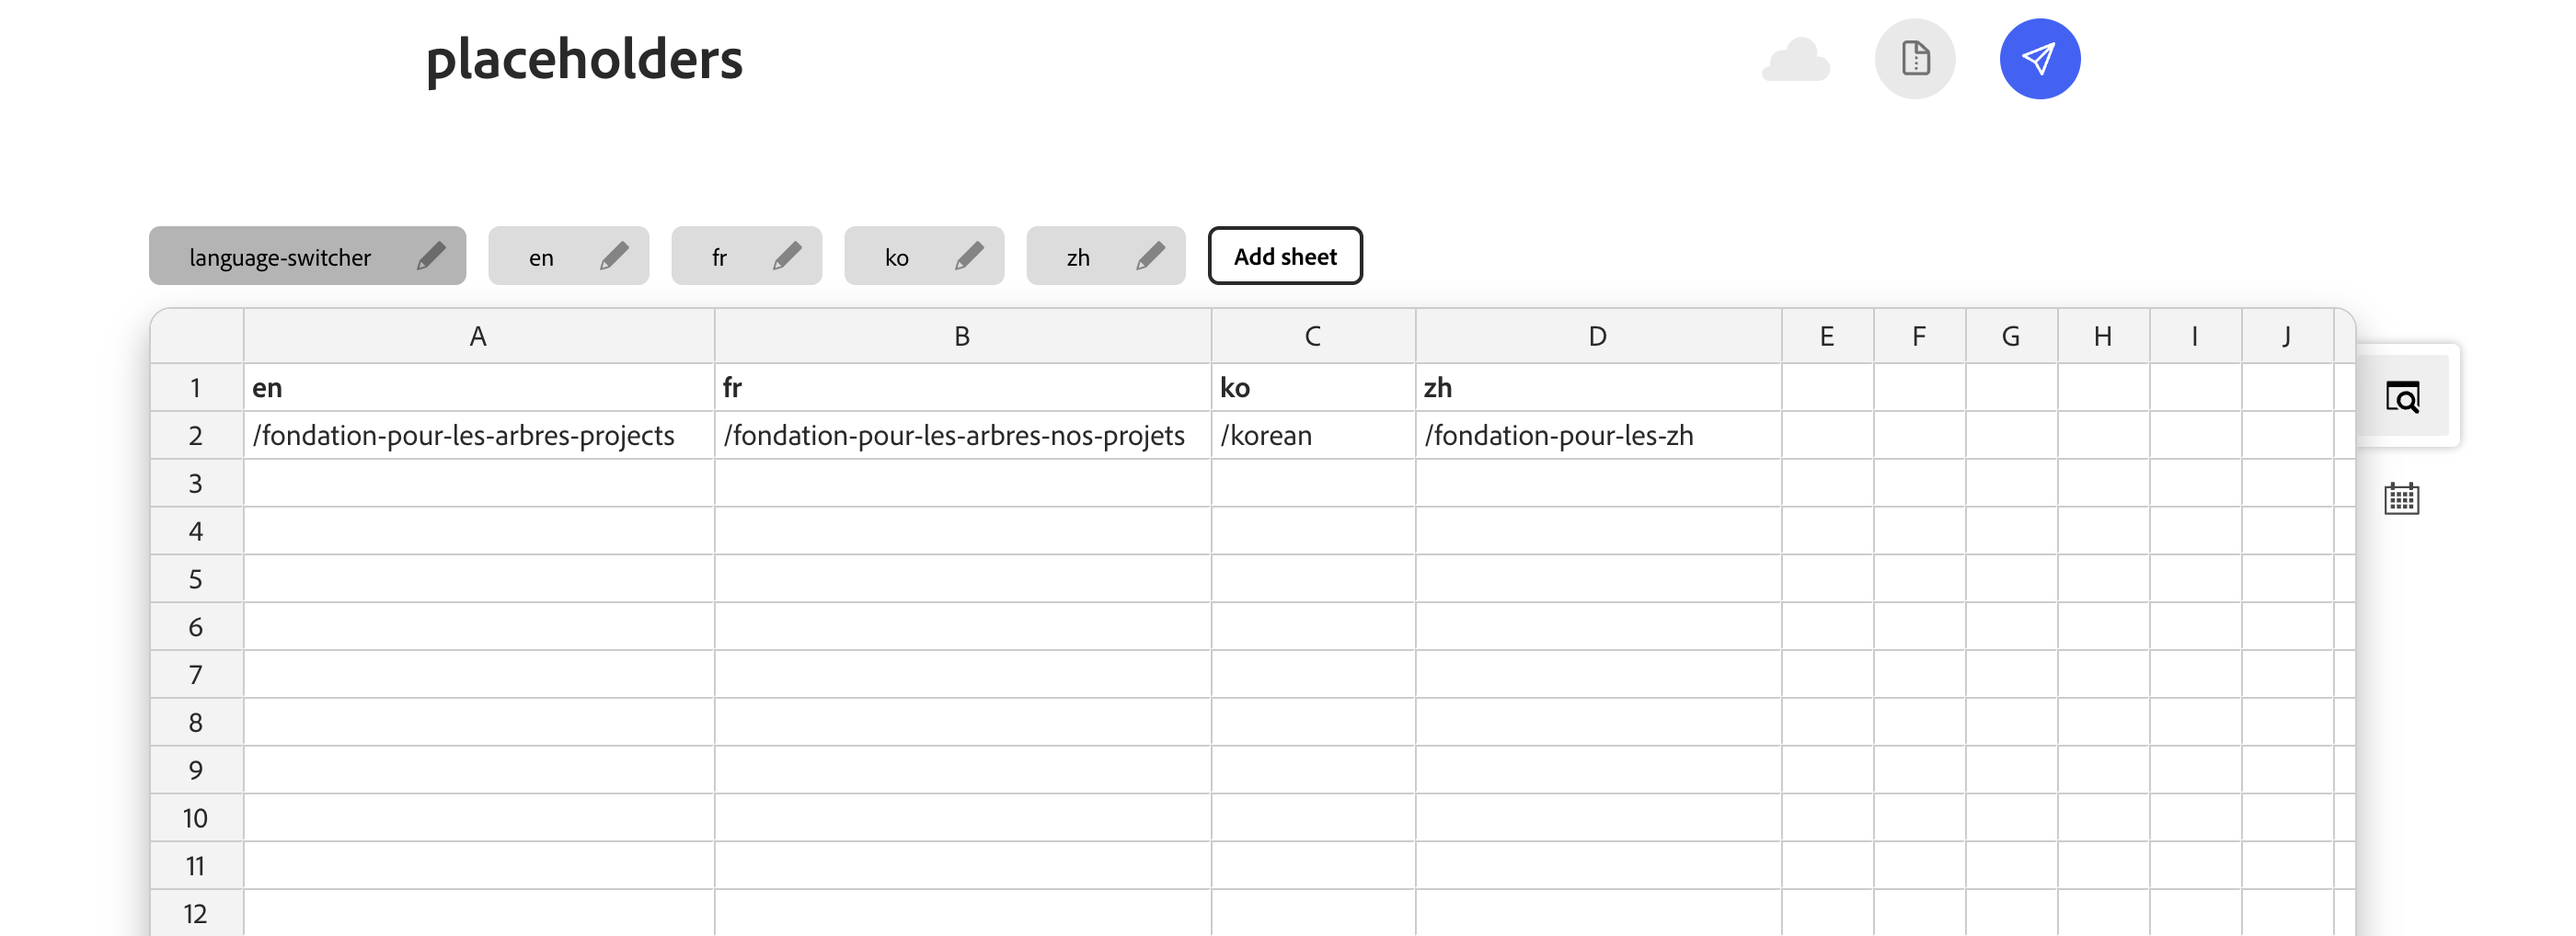
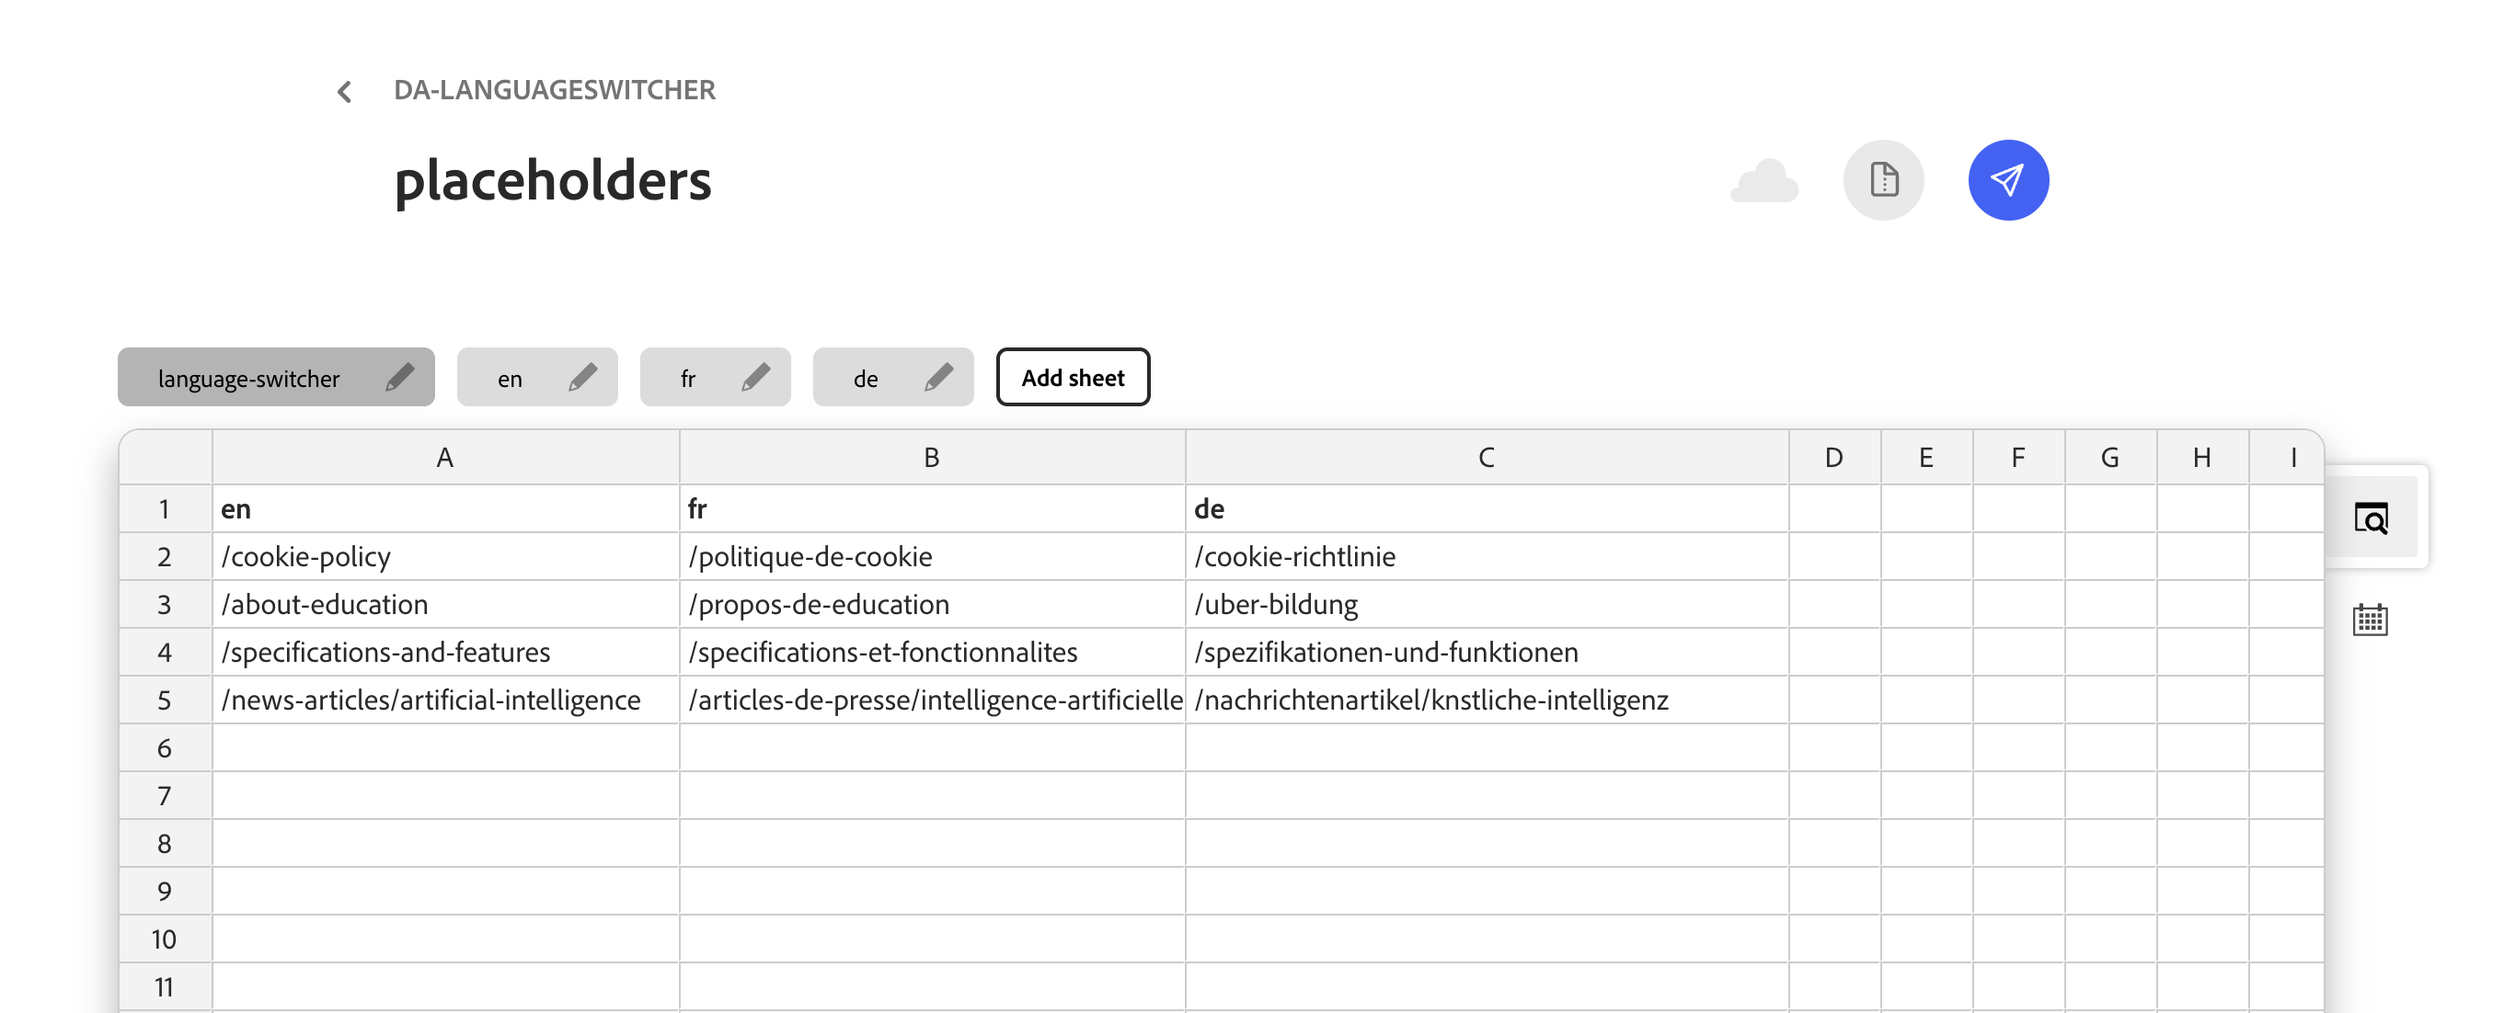
readme update

diff --git a/tools/languageswitcher/README.md b/tools/languageswitcher/README.md
@@ -1,12 +1,10 @@
 # Language Switcher
 
-
-A Document Authoring (DA) library plugin that allows to quickly switch between localized versions of a page using **`placeholders.json`**. 
-
+A Document Authoring (DA) **library plugin** that helps authors jump to the same page in other locales and run bulk **preview** / **publish** for every language defined in **`placeholders.json`**.
 
 ## Overview
-
-Language Switcher is for same-page, different-language navigation. It helps authors jump to the equivalent path for the document they are editing.
+Language Switcher is for same-page, different-language navigation. It helps authors jump to the equivalent 
+path for the document they are editing.
 
 ## Features
 
@@ -23,20 +21,24 @@ Language Switcher is for same-page, different-language navigation. It helps auth
     Makes switching languages easy without editing URLs manually.
 
 4. **Open Selected/All Languages**
-  * Selected Langauge Page: Opens the same page in the language chosen by the user.
+  * Selected Language Page: Opens the same page in the language chosen by the user.
     All Language Pages: Opens all available language versions of the current page at once.
 
-5. **Intelligent Fallback Navigation**
-  * If no mapping is found in placeholders.json, the plugin falls back to updating only the locale in the URL while preserving the existing path.
+5. **Preview/Publish All Language Pages**
+  * Allows users to preview/publish all available versions of the current page in a single action.
+  The plugin validates each page and displays corresponding results such as successful preview/publish, 404 page not found, unauthorized access and other errors.
+
+6. **Intelligent Fallback Navigation**
+  If no mapping is found in `placeholders.json`, the plugin falls back to updating only the locale in the URL while preserving the existing page path.
 
 
 ## How to Use
 
-1. Add the plugin under `tools/languageswitcher/` (`languageswitcher.html`, `languageswitcher.js`, `languageswitcher.css`, `placeholders.js`, `locale-url-helper.js`, optional `icons/`).
+1. Add the plugin under `tools/languageswitcher/` (`languageswitcher.html`, `languageswitcher.js`, `languageswitcher.css`, `placeholders.js`, `locale-url-helper.js`, `aem-admin.js`, `da-permissions.js` optional `icons/`).
+
 2. A published **`placeholders.json`** in repo that includes a **`language-switcher`** sheet. Example:
 
 ![Example UI:](placeholders.png)
-
 
 3. Open the page you want to switch from (any supported language) in DA
 4. Open DA Language Switcher from the Library. 
@@ -44,6 +46,7 @@ Language Switcher is for same-page, different-language navigation. It helps auth
   a) Open Page for Selected Language → Opens the equivalent page in the chosen language
   b) Open Page for All Languages → Opens all available localized versions of the current page
 * For 2 languages the plugin directly displays the alternate language option instead of showing a dropdown.
+6. Preview All/ Publish All Language Pages → Triggers preview/publish for all localized pages and displays status/results for each language page.
 
 ## File Overview
 
@@ -53,9 +56,11 @@ tools/languageswitcher/
 ├── languageswitcher.js     # Core logic (UI + navigation handling)
 ├── languageswitcher.css    # Layout and styling
 ├── placeholders.js         # Fetch placeholders.json, Implements the core language resolution logic.
-├── locale-url-helper.js    # Shared utilities (DA / preview URL builders, helpers) 
+├── locale-url-helper.js    # Shared utilities (DA / preview URL builders, helpers)
+├── aem-admin.js            # Page preview/publish + result messages
+├── da-permissions.js       # DA actions read/write checks
 ├── icons/
-│   └── language-icon.svg   # library icon
+│   └── language-icon.svg   # Library icon
 └── README.md               # Documentation
 ```
 
@@ -71,3 +76,5 @@ tools/languageswitcher/
 
 **Placeholder Resolution Priority:**
 When multiple placeholders.json files are available across directory levels, the plugin prioritizes the root-level placeholder configuration.
+
+The plugin supports any number of languages by configuring entries in placeholders.json
